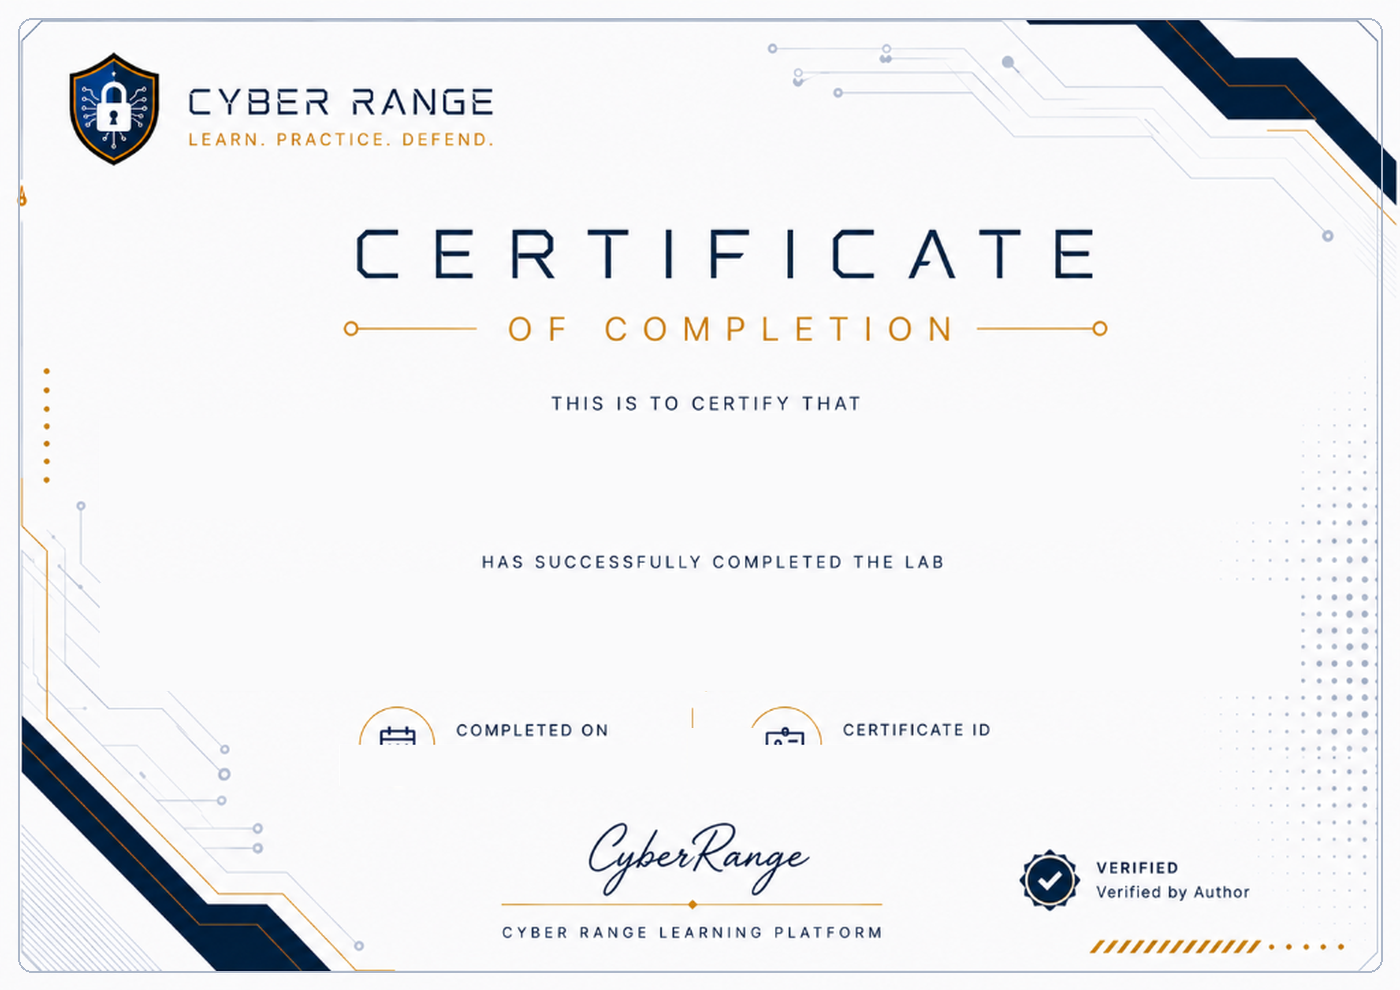
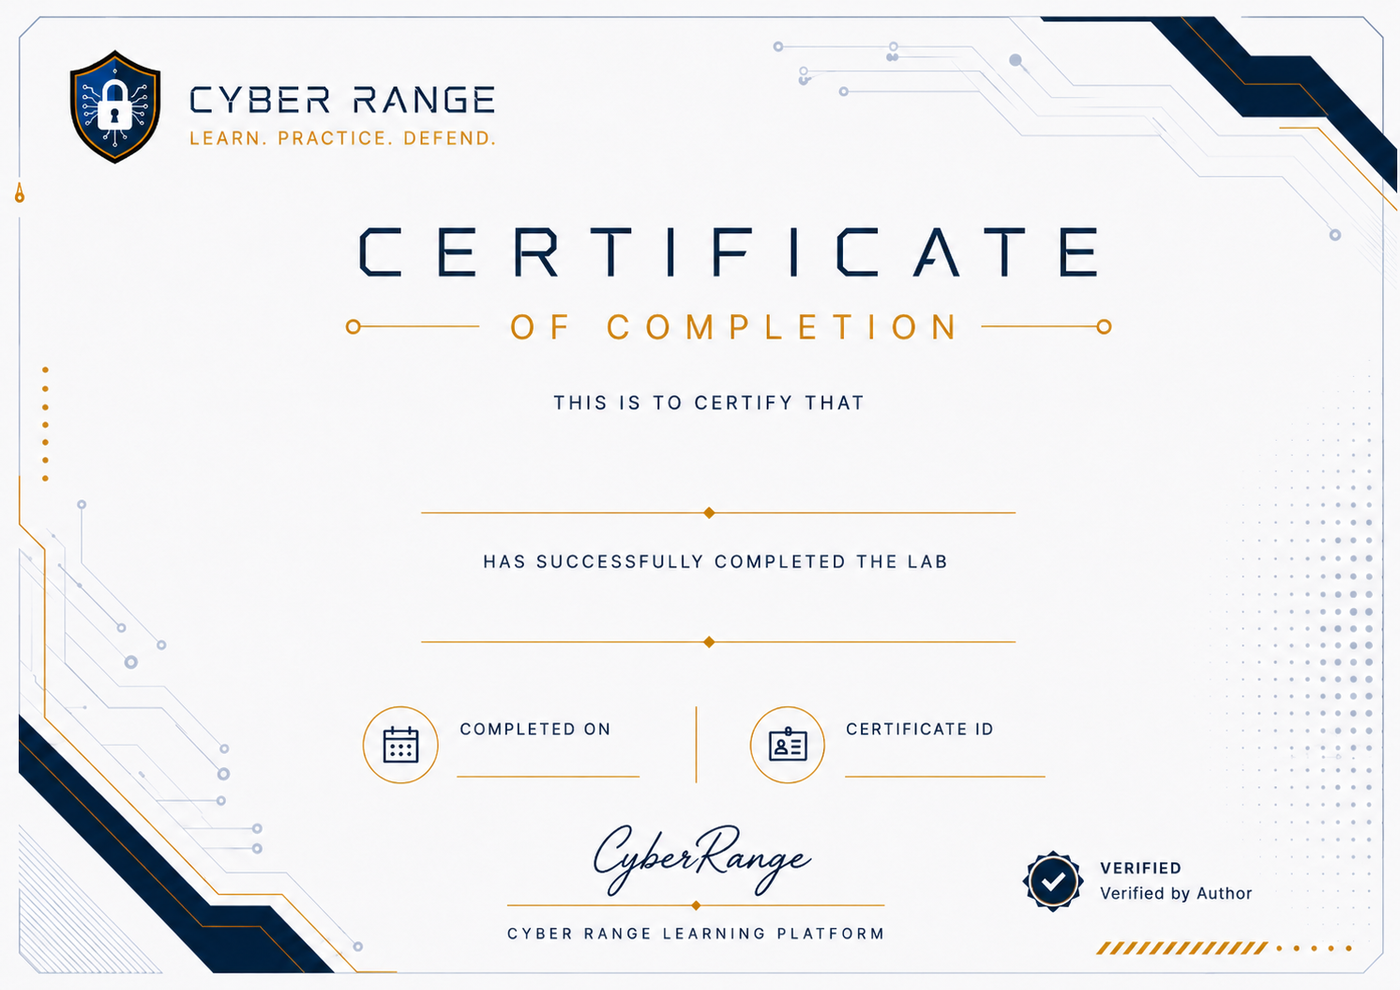
feat: replace certificate master template with user-provided design
Located the actual reference file at C:\Users\Udhayakumar\Downloads\
certificate.png (the blank template the user had been repeatedly
screenshotting) and installed it as the new certificate_master.png,
resized from its native 1493x1053 to the pipeline's standard 1400x990
canvas (near-identical aspect ratio, negligible distortion).

This template has its own baked-in gold underlines for name, lab
title, date, and certificate ID — removed the dynamic underline-
drawing code from render_png(), which was producing a visible double
line stacked on top of the template's own artwork now that the
template supplies it natively.

Verified against a normal case and the exact long lab title from
earlier reference images ("OT Railroad Signaling & Control Security
Lab") — renders as a single continuous design with no clipping, no
double lines, and correct Tinos (Times New Roman equivalent) styling
on all four dynamic fields.

diff --git a/backup/backend/app/services/certificate_service.py b/backup/backend/app/services/certificate_service.py
@@ -240,27 +240,10 @@ class CertificateService:
             font  = self._get_font(f_cfg.get("font", "PlusJakartaSans-Bold.ttf"), f_cfg.get("size", 18))
             lab_x0, lab_tw, lab_bottom = self._draw_wrapped_text(draw, field_values["lab_title"], f_cfg, font, max_width=max_widths["lab_title"])
 
-        # Gold underline + diamond centered under a field, sized to the actual
-        # rendered text width (with headroom either side) rather than a fixed
-        # guess — a static-width line looks disconnected from very short
-        # values and gets overrun by very long ones. Used under both the
-        # recipient name and the lab title, matching the reference design.
-        def _draw_gold_underline(x0: int, tw: int, y: int, pad: int = 40, gap: int = 10, d: int = 6):
-            line_x0 = x0 - pad
-            line_x1 = x0 + tw + pad
-            mid_x = (line_x0 + line_x1) // 2
-            draw.line([(line_x0, y), (mid_x - gap, y)], fill="#C5A059", width=2)
-            draw.line([(mid_x + gap, y), (line_x1, y)], fill="#C5A059", width=2)
-            draw.polygon(
-                [(mid_x, y - d), (mid_x + d, y), (mid_x, y + d), (mid_x - d, y)],
-                fill="#C5A059",
-            )
-
-        if name_x0 is not None:
-            _draw_gold_underline(name_x0, name_tw, name_bottom + 15)
-
-        if lab_x0 is not None:
-            _draw_gold_underline(lab_x0, lab_tw, lab_bottom + 12, pad=30, gap=8, d=5)
+        # No underline drawn here — the current certificate_master.png already
+        # has its own baked-in gold underlines under the name, lab title,
+        # date, and certificate ID zones as part of the template art itself.
+        # Drawing another one on top produced a visible double-line.
 
         buffer = io.BytesIO()
         # Create a solid white background to blend RGBA channels properly (prevent black backgrounds)
